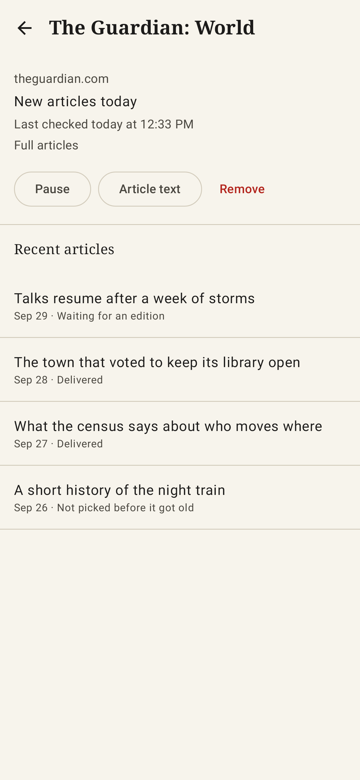
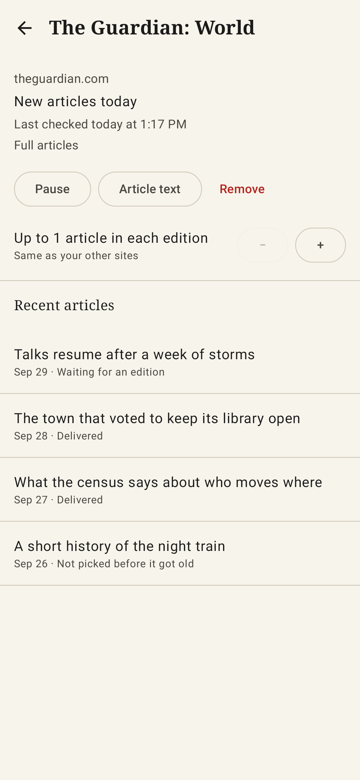
Per-source article cap on the source screen
A source can take more (or fewer) articles per edition than the edition's
"up to N from each site". Stepping back to the edition's number clears the
override, so the source follows that setting again. Not offered for
tt-rss, whose publications are capped one by one.

Claude-Session: https://claude.ai/code/session_01RUhkY7zYUNXC6E8xx5UjgD

diff --git a/app/src/main/java/com/app/newspaperss/ui/sources/SourceDetailScreen.kt b/app/src/main/java/com/app/newspaperss/ui/sources/SourceDetailScreen.kt
@@ -6,6 +6,7 @@ import androidx.compose.foundation.layout.Box
 import androidx.compose.foundation.layout.Column
 import androidx.compose.foundation.layout.FlowRow
 import androidx.compose.foundation.layout.PaddingValues
+import androidx.compose.foundation.layout.Row
 import androidx.compose.foundation.layout.fillMaxSize
 import androidx.compose.foundation.layout.padding
 import androidx.compose.foundation.lazy.LazyColumn
@@ -30,6 +31,7 @@ import androidx.compose.runtime.getValue
 import androidx.compose.runtime.mutableStateOf
 import androidx.compose.runtime.remember
 import androidx.compose.runtime.setValue
+import androidx.compose.ui.Alignment
 import androidx.compose.ui.Modifier
 import androidx.compose.ui.platform.LocalConfiguration
 import androidx.compose.ui.platform.LocalContext
@@ -41,6 +43,7 @@ import com.app.newspaperss.data.ArticleState
 import com.app.newspaperss.data.SourceEntity
 import com.app.newspaperss.data.SourceKind
 import com.app.newspaperss.data.SourceRepository
+import com.app.newspaperss.ui.settings.SettingsViewModel
 import java.time.Instant
 import java.time.ZoneId
 import java.time.format.DateTimeFormatter
@@ -84,6 +87,9 @@ fun SourceDetailScreen(viewModel: SourceDetailViewModel, onBack: () -> Unit, onG
                     if (source.kind == SourceKind.FEED) OutlinedButton(onClick = { choosingMode = true }) { Text("Article text") }
                     TextButton(onClick = { removing = true }) { Text("Remove", color = MaterialTheme.colorScheme.error) }
                 }
+                if (source.kind != SourceKind.TTRSS) {
+                    ArticleCap(source.maxArticles, detail?.defaultMax ?: 1, viewModel::setMaxArticles)
+                }
                 HorizontalDivider(Modifier.padding(top = 16.dp))
                 Text("Recent articles", style = MaterialTheme.typography.titleMedium, modifier = Modifier.padding(16.dp))
                 if (articles.isEmpty()) Text("No articles yet.", modifier = Modifier.padding(horizontal = 16.dp))
@@ -111,6 +117,27 @@ private fun Health(source: SourceEntity, lastNew: Instant?, locale: Locale, is24
         if (!source.paused) failingLine(source.failingSince, locale)?.let { Text(it, color = MaterialTheme.colorScheme.error) }
         lastCheckedLine(source.lastFetchedAt, locale, is24Hour)?.let { Text(it, style = MaterialTheme.typography.bodyMedium, color = muted) }
         textLine(source)?.let { Text(it, style = MaterialTheme.typography.bodyMedium, color = muted) }
+    }
+}
+
+@Composable
+private fun ArticleCap(own: Int?, default: Int, onChange: (Int) -> Unit) {
+    val max = own ?: default
+    Row(Modifier.padding(start = 16.dp, end = 16.dp, top = 16.dp), verticalAlignment = Alignment.CenterVertically) {
+        Column(Modifier.weight(1f)) {
+            Text(if (max == 1) "Up to 1 article in each edition" else "Up to $max articles in each edition")
+            Text(
+                if (own == null) "Same as your other sites" else "Your other sites: up to $default",
+                style = MaterialTheme.typography.bodySmall,
+                color = MaterialTheme.colorScheme.onSurfaceVariant,
+            )
+        }
+        OutlinedButton(onClick = { onChange(max - 1) }, enabled = max > 1) { Text("−") }
+        OutlinedButton(
+            onClick = { onChange(max + 1) },
+            enabled = max < SettingsViewModel.MAX_PER_SOURCE,
+            modifier = Modifier.padding(start = 8.dp),
+        ) { Text("+") }
     }
 }
 

diff --git a/app/src/test/java/com/app/newspaperss/ui/SourceDetailScreenTest.kt b/app/src/test/java/com/app/newspaperss/ui/SourceDetailScreenTest.kt
@@ -22,6 +22,8 @@ import com.app.newspaperss.ui.sources.SourceDetailScreen
 import com.app.newspaperss.ui.sources.SourceDetailViewModel
 import com.app.newspaperss.ui.sources.failingLine
 import com.app.newspaperss.ui.sources.lastCheckedLine
+import kotlinx.coroutines.flow.MutableStateFlow
+import kotlinx.coroutines.flow.flowOf
 import kotlinx.coroutines.runBlocking
 import org.junit.After
 import org.junit.Assert.assertEquals
@@ -64,7 +66,7 @@ class SourceDetailScreenTest {
             id
         }
         var back = false
-        val vm = SourceDetailViewModel(repo, id)
+        val vm = SourceDetailViewModel(repo, id, flowOf(1))
         compose.setContent { SourceDetailScreen(vm, onBack = { back = true }) }
         idleUntil { visible("Couldn't reach the site.") }
 
@@ -87,6 +89,28 @@ class SourceDetailScreenTest {
         idleUntil { compose.waitForIdle(); back }
 
         assertEquals(emptyList<Any>(), runBlocking { db.sources().all() })
+    }
+
+    /** Landing back on the edition's own number clears the override, so the site follows that setting later. */
+    @Test
+    fun aSiteCanHaveMoreOrFewerArticlesThanTheRest() {
+        val id = runBlocking { repo.addFeed("https://example.com/feed", "Example") }
+        val defaultMax = MutableStateFlow(2)
+        val vm = SourceDetailViewModel(repo, id, defaultMax)
+        compose.setContent { SourceDetailScreen(vm, onBack = {}) }
+        idleUntil { visible("Up to 2 articles in each edition") }
+        compose.onNodeWithText("Same as your other sites").assertExists()
+
+        compose.onNodeWithText("+").performClick()
+        idleUntil { compose.waitForIdle(); visible("Up to 3 articles") }
+        compose.onNodeWithText("Your other sites: up to 2").assertExists()
+        assertEquals(3, runBlocking { db.sources().byId(id)!!.maxArticles })
+
+        compose.onNodeWithText("−").performClick()
+        idleUntil { compose.waitForIdle(); visible("Same as your other sites") }
+        assertNull(runBlocking { db.sources().byId(id)!!.maxArticles })
+        defaultMax.value = 1
+        idleUntil { compose.waitForIdle(); visible("Up to 1 article in each edition") }
     }
 
     @Test

diff --git a/app/src/main/java/com/app/newspaperss/ui/sources/SourceDetailViewModel.kt b/app/src/main/java/com/app/newspaperss/ui/sources/SourceDetailViewModel.kt
@@ -8,24 +8,40 @@ import com.app.newspaperss.data.SourceEntity
 import com.app.newspaperss.data.SourceKind
 import com.app.newspaperss.data.SourceRepository
 import com.app.newspaperss.data.TtrssRepository
+import com.app.newspaperss.ui.settings.SettingsViewModel
+import kotlinx.coroutines.flow.Flow
 import kotlinx.coroutines.flow.SharingStarted
 import kotlinx.coroutines.flow.StateFlow
 import kotlinx.coroutines.flow.combine
 import kotlinx.coroutines.flow.stateIn
 import kotlinx.coroutines.launch
 
-/** [source] is null once the source is gone, e.g. removed from here. */
-data class SourceDetail(val source: SourceEntity?, val articles: List<ArticleEntity>)
+/**
+ * [source] is null once the source is gone, e.g. removed from here.
+ * [defaultMax] is the edition's own per-source cap, which [SourceEntity.maxArticles] replaces.
+ */
+data class SourceDetail(val source: SourceEntity?, val articles: List<ArticleEntity>, val defaultMax: Int)
 
 class SourceDetailViewModel(
     private val repository: SourceRepository,
     private val id: Long,
+    defaultMax: Flow<Int>,
     private val ttrss: TtrssRepository? = null,
 ) : ViewModel() {
     /** Null until loaded. */
     val detail: StateFlow<SourceDetail?> =
-        combine(repository.observe(id), repository.observeRecentArticles(id)) { source, articles -> SourceDetail(source, articles) }
+        combine(repository.observe(id), repository.observeRecentArticles(id), defaultMax) { source, articles, max -> SourceDetail(source, articles, max) }
             .stateIn(viewModelScope, SharingStarted.WhileSubscribed(5_000), null)
+
+    /**
+     * Sets how many articles this source may have in an edition. Landing back on the edition's
+     * own number clears the override, so the source follows that setting again when it changes.
+     */
+    fun setMaxArticles(max: Int) {
+        val default = detail.value?.defaultMax ?: return
+        val value = max.coerceIn(1, SettingsViewModel.MAX_PER_SOURCE)
+        viewModelScope.launch { repository.setMaxArticles(id, value.takeIf { it != default }) }
+    }
 
     fun togglePaused() {
         val source = detail.value?.source ?: return

diff --git a/core/src/main/kotlin/com/app/newspaperss/core/edition/EditionPlanner.kt b/core/src/main/kotlin/com/app/newspaperss/core/edition/EditionPlanner.kt
@@ -30,6 +30,8 @@ data class PlanRules(
     /** At most this many articles per source; null for no cap. */
     val maxPerSource: Int? = 1,
     val ordering: Ordering = Ordering.TAKE_TURNS,
+    /** Caps for particular sources, by [Candidate.sourceId], in place of [maxPerSource]. */
+    val sourceCaps: Map<String, Int> = emptyMap(),
 )
 
 object EditionPlanner {
@@ -78,7 +80,7 @@ object EditionPlanner {
 
     /**
      * Fetches [ordered] candidates one at a time until the budget is met,
-     * taking at most `maxPerSource` from each source.
+     * taking at most `maxPerSource` from each source (or its own entry in `sourceCaps`).
      *
      * The budget is checked before each fetch, so a minutes budget is
      * exceeded by at most one article, and a larger pool doesn't mean more
@@ -101,7 +103,8 @@ object EditionPlanner {
             }
             if (full) break
             val taken = perSource[candidate.sourceId] ?: 0
-            if (rules.maxPerSource != null && taken >= rules.maxPerSource) continue
+            val cap = rules.sourceCaps[candidate.sourceId] ?: rules.maxPerSource
+            if (cap != null && taken >= cap) continue
             val article = fetch(candidate) ?: continue
             picked += article
             perSource[candidate.sourceId] = taken + 1

diff --git a/app/src/main/java/com/app/newspaperss/MainActivity.kt b/app/src/main/java/com/app/newspaperss/MainActivity.kt
@@ -53,6 +53,7 @@ import com.app.newspaperss.ui.readinglist.ReadingListViewModel
 import com.app.newspaperss.ui.settings.SettingsScreen
 import com.app.newspaperss.ui.settings.SettingsViewModel
 import com.app.newspaperss.work.SyncWorker
+import kotlinx.coroutines.flow.map
 import kotlinx.coroutines.launch
 
 private enum class Tab(val route: String, val label: String, val icon: ImageVector) {
@@ -176,7 +177,7 @@ private fun App(container: AppContainer) {
             }
             composable(SOURCE, arguments = listOf(navArgument("id") { type = NavType.LongType })) { entry ->
                 val id = entry.arguments?.getLong("id") ?: 0L
-                val vm = viewModel { SourceDetailViewModel(container.sources, id, container.ttrss) }
+                val vm = viewModel { SourceDetailViewModel(container.sources, id, container.settings.settings.map { it.edition.maxPerSource }, container.ttrss) }
                 SourceDetailScreen(vm, onBack = { nav.navigateUp() }, onGone = { nav.popBackStack(SOURCE, inclusive = true) })
             }
             composable(READING_LIST) {

diff --git a/app/src/main/java/com/app/newspaperss/edition/EditionBuilder.kt b/app/src/main/java/com/app/newspaperss/edition/EditionBuilder.kt
@@ -111,7 +111,10 @@ class EditionBuilder(
         var fetched = 0
         val allowance = ImageAllowance(imageBudgetBytes)
         fun minutesOf(c: ArticleContent) = ReadingTime.minutes(c.wordCount, settings.wordsPerMinute)
-        val picked = EditionPlanner.fill<Pair<ArticleEntity, ArticleContent>>(ordered, settings.rules, { minutesOf(it.second) }) { c ->
+        // tt-rss candidates are keyed by publication, so an account-wide cap wouldn't match any of them.
+        val caps = sources.filter { it.kind != SourceKind.TTRSS }.mapNotNull { s -> s.maxArticles?.let { s.id.toString() to it } }.toMap()
+        val rules = settings.rules.copy(sourceCaps = caps)
+        val picked = EditionPlanner.fill<Pair<ArticleEntity, ArticleContent>>(ordered, rules, { minutesOf(it.second) }) { c ->
             val article = byId.getValue(c.id.toLong())
             val result = try {
                 content.contentFor(article, sourcesById.getValue(article.sourceId), allowance)?.let { article to it }

diff --git a/app/src/test/java/com/app/newspaperss/edition/EditionBuilderTest.kt b/app/src/test/java/com/app/newspaperss/edition/EditionBuilderTest.kt
@@ -134,6 +134,19 @@ class EditionBuilderTest {
     }
 
     @Test
+    fun aSourcesOwnCapReplacesTheEditionsOne() = runTest {
+        val a = source("a", null, "a1", "a2", "a3")
+        source("b", null, "b1", "b2")
+        sources.setMaxArticles(a, 2)
+
+        val built = builder.build(EditionSettings(maxPerSource = 1)) as BuildResult.Built
+
+        val titles = editions.observeArticles(built.editionId).first().map { it.title }
+        assertEquals(2, titles.count { it.startsWith("a ") })
+        assertEquals(1, titles.count { it.startsWith("b ") })
+    }
+
+    @Test
     fun aLinkInTwoSourcesGoesInOnce() = runTest {
         source("a", null, "a1")
         val b = sources.addFeed("https://b.example/feed", "b")

diff --git a/core/src/test/kotlin/com/app/newspaperss/core/edition/EditionPlannerTest.kt b/core/src/test/kotlin/com/app/newspaperss/core/edition/EditionPlannerTest.kt
@@ -59,6 +59,13 @@ class EditionPlannerTest {
         assertEquals(listOf("a3", "b1", "c1"), result)
     }
 
+    @Test
+    fun aSourcesOwnCapReplacesTheEditionsInEitherDirection() = runTest {
+        val ordered = EditionPlanner.order(pool, abc, Ordering.TAKE_TURNS)
+        val rules = PlanRules(Budget.Articles(10), maxPerSource = 2, sourceCaps = mapOf("a" to 3, "c" to 1))
+        assertEquals(listOf("a3", "b1", "c2", "a2", "a1"), EditionPlanner.fill<String>(ordered, rules, { 1.0 }) { it.id })
+    }
+
     private data class Fetched(val id: String, val minutes: Double)
 
     @Test

diff --git a/app/src/main/java/com/app/newspaperss/data/Daos.kt b/app/src/main/java/com/app/newspaperss/data/Daos.kt
@@ -65,6 +65,9 @@ interface SourceDao {
     @Query("UPDATE sources SET contentMode = :mode, contentModeChosen = :chosen, fullTextEvidence = NULL, fullTextStreak = 0, fullTextDay = NULL WHERE id = :id")
     suspend fun setContentMode(id: Long, mode: ContentMode, chosen: Boolean)
 
+    @Query("UPDATE sources SET maxArticles = :max WHERE id = :id")
+    suspend fun setMaxArticles(id: Long, max: Int?)
+
     @Query("SELECT * FROM sources WHERE kind = :kind")
     suspend fun ofKind(kind: SourceKind): List<SourceEntity>
 

diff --git a/app/src/main/java/com/app/newspaperss/data/Entities.kt b/app/src/main/java/com/app/newspaperss/data/Entities.kt
@@ -38,6 +38,8 @@ data class SourceEntity(
     /** The epoch day the last piece of full-text evidence was counted. */
     val fullTextDay: Long? = null,
     val paused: Boolean = false,
+    /** At most this many articles per edition from this source; null follows the edition setting. Not used for tt-rss. */
+    val maxArticles: Int? = null,
     val addedAt: Instant = Instant.now(),
     val lastFetchedAt: Instant? = null,
     /** The last sync error, cleared by the next successful sync. */

diff --git a/app/src/test/java/com/app/newspaperss/ui/ScreenshotTest.kt b/app/src/test/java/com/app/newspaperss/ui/ScreenshotTest.kt
@@ -173,7 +173,7 @@ class ScreenshotTest {
             db.sources().setFullText(id, ContentMode.PAGE, FullTextEvidence.PAGE_LONGER, 3, null)
             id
         }
-        val vm = SourceDetailViewModel(repo, id)
+        val vm = SourceDetailViewModel(repo, id, flowOf(1))
         shoot("06b-source-detail", ready = { vm.detail.value?.articles?.isNotEmpty() == true }) { SourceDetailScreen(vm, onBack = {}) }
     }
 

diff --git a/app/src/main/java/com/app/newspaperss/data/SourceRepository.kt b/app/src/main/java/com/app/newspaperss/data/SourceRepository.kt
@@ -61,6 +61,8 @@ class SourceRepository(private val db: AppDatabase) {
 
     suspend fun setPaused(id: Long, paused: Boolean) = sources.setPaused(id, paused)
 
+    suspend fun setMaxArticles(id: Long, max: Int?) = sources.setMaxArticles(id, max)
+
     suspend fun remove(source: SourceEntity) = sources.delete(source)
 
     /**
